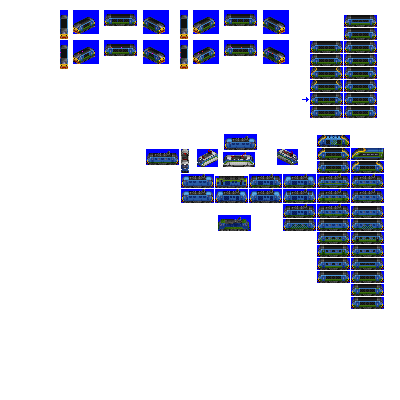
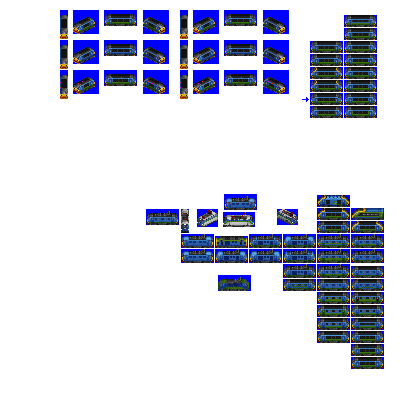
Change: additional livery for Sizzler

diff --git a/src/vehicles/sizzler.py b/src/vehicles/sizzler.py
@@ -16,10 +16,8 @@ def main(roster_id):
         gen=6,
         pantograph_type="z-shaped-double",
         intro_year_offset=2,  # introduce later than gen epoch by design
-        # banger blue?
-        additional_liveries=[],
+        additional_liveries=["BANGER_BLUE"],
         sprites_complete=True,
-        sprites_additional_liveries_needed=True, # banger blue?
     )
 
     consist.add_unit(
